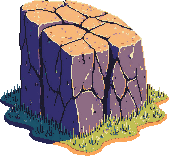
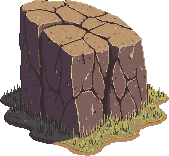
The tongue-stair climbs, and the scattered stones are gone
The carved stair to the maw is back as a continuous terrain-hugging
ribbon of pale treads seated by a soft seam - and the mystery chips that
traced the flows turned out to be the treads themselves, over-painted to
buried slivers by the front row (floor(row)+400 always loses to the next
row top at +5; the same z-band class as the invisible cascades). Treads
now ride the front row band.

De-clutter per the verdict: meadow boulders remapped from violet/orange
to quiet warm basalt, spawn cut, scale capped, the columnar one nearly
retired - the POWER steles are the meadow's only speaking verticals. The
charred column ring tightened (1.55 -> 1.3) and basalt courses now only
dress genuinely rock-banded flank, so no more dashed debris rings. The
gate stream runs a tile further from the stair so the two ribbons read
as parallel fire and pilgrim-stone, never a merge.

diff --git a/src/game/island/IslandMapIso.tsx b/src/game/island/IslandMapIso.tsx
@@ -724,7 +724,11 @@ export default function IslandMapIso() {
                 // independently, printing an orange/dark checker across the transition —
                 // walls follow the smooth field so the families change in long runs.
                 // Channel walls char: the lava bed's risers go basalt regardless of band.
-                const isCone = !NOCONE && L > PLAT_L && coneH(tx, ty) > 0 && !toSea && (sideW.length > 0 || vsF.length > 0)
+                // basalt courses ONLY where the top itself is banded rock: on the
+                // grassy lower flank every 1-level bench lip drew a dark strata
+                // column against the sunlit turf — a dashed debris ring circling
+                // the whole cone (Ash's "scattered stones", found via the dbg grid)
+                const isCone = !NOCONE && L > PLAT_L && coneBand(tx, ty) >= 1 && coneH(tx, ty) > 0 && !toSea && (sideW.length > 0 || vsF.length > 0)
                 // a lava tile's step pours EVERYWHERE, benches included — below the
                 // cone the flow's steps drew charred columns and the river read as
                 // dashes with dark gaps at every bench lip
@@ -734,7 +738,10 @@ export default function IslandMapIso() {
                   // river tiles pour over their steps as burning falls
                   drawFace(bx, by, lift - liftOf(floorMin), tx, ty, zBase, moltenStep)
                 } else {
-                  const charred = !NOCONE && (lavaDist(tx, ty) < 1.55 || craterK(tx, ty) > 0.4)
+                  // TIGHT charred ring (was 1.55): the 1.25..1.55 band turned every
+                // terrace-lip column near the flow into dark brick chips — a
+                // dashed debris line tracing the whole river ("scattered stones")
+                const charred = !NOCONE && (lavaDist(tx, ty) < 1.3 || craterK(tx, ty) > 0.4)
                   // a grass-topped inland step wears a turf riser (kills the pink
                   // rock contour lines under the meadow); sand beaches + coast cliffs
                   // + charred channel keep rock
@@ -747,7 +754,7 @@ export default function IslandMapIso() {
                 // channel, charred-dark so it recedes — NOT the broad fills Ash circled
                 // (those tinted bright rock across the whole flank). Grass/rock steps
                 // stay unfilled (their 1-level slivers read fine).
-                const inChannel = !NOCONE && (lavaDist(tx, ty) < 1.7 || craterK(tx, ty) > 0.3)
+                const inChannel = !NOCONE && !params.get('novoid') && (lavaDist(tx, ty) < 1.7 || craterK(tx, ty) > 0.3)
                 if (inChannel && (sideL.length || sideW.length)) {
                   const fam = sideL.length ? sideL : sideW
                   for (const [ox, oy] of [[-1, 0], [0, -1], [-1, -1]] as [number, number][]) {
@@ -1308,11 +1315,13 @@ export default function IslandMapIso() {
             const jy = sy + hash(sx + 5, sy) * 1.8 - 0.9
             if (r < 0.055) {
               putPlant(hash(sx + 2, sy) > 0.5 ? 'tuft-1' : 'tuft-2', jx, jy, { sc: 0.42 + 0.3 * hash(sx + 7, sy + 2), flip: hash(sx + 1, sy + 9) > 0.5, noShadow: true })
-            } else if (r < 0.062) {
-              // darkened — at native tint the terracotta+violet faces read as
-              // loud pink blobs against the meadow at mid zoom
-              putPlant(hash(sx, sy) > 0.75 ? 'boulder-1' : 'boulder-2', jx, jy, { sc: 0.5 + 0.35 * hash(sx + 7, sy + 2), flip: hash(sx + 1, sy + 9) > 0.5, dark: 0.8 })
-            } else if (r < 0.0655) {
+            } else if (r < 0.058) {
+              // QUIET rocks (Ash: "too many pillar / stones scattered") — art
+              // remapped to warm basalt, spawn cut ~60%, scale capped LOW, and
+              // the columnar boulder-1 nearly retired so the POWER steles stay
+              // the meadow's only speaking verticals
+              putPlant(hash(sx, sy) > 0.92 ? 'boulder-1' : 'boulder-2', jx, jy, { sc: 0.38 + 0.2 * hash(sx + 7, sy + 2), flip: hash(sx + 1, sy + 9) > 0.5, dark: 0.82 })
+            } else if (r < 0.0615) {
               putPlant('palm-fallen', jx, jy, { sc: 0.5 + 0.15 * hash(sx + 4, sy + 6), flip: hash(sx + 3, sy + 1) > 0.5 })
             }
           }
@@ -2081,6 +2090,57 @@ export default function IslandMapIso() {
                 world.addChild(rf2)
               }
             } catch { /* ford stones optional */ }
+            // THE TONGUE-STAIR: the carved climb from the forecourt up into the
+            // maw — terrain-hugging basalt treads pacing the exact corridor the
+            // walkmap opens (tongueD < 1.4). Each tread sits at its own ground
+            // height so the terraces themselves make the steps; flanking curb
+            // stones every few treads define the edges; the maw's light spills
+            // down the top of the climb.
+            try {
+              const stT: Texture = await Assets.load('/art/island/harbor/stone-block-a.png?v=5')
+              stT.source.scaleMode = 'nearest'
+              const slabT = new Texture({ source: stT.source, frame: new Rectangle(0, 0, 64, 36) })
+              let ti = 0
+              for (let i = 0; i < TONGUE.length - 1; i++) {
+                const [x0, y0] = TONGUE[i], [x1, y1] = TONGUE[i + 1]
+                // CONTIGUOUS treads (pitch 0.42, wide slabs): the first pass at
+                // 0.62 pitch drew separated dark rectangles — "scattered stones"
+                // again, the exact verdict this stair exists to answer
+                const n = Math.max(1, Math.ceil(Math.hypot(x1 - x0, y1 - y0) / 0.42))
+                for (let s = 0; s < n; s++, ti++) {
+                  const x = x0 + ((x1 - x0) * s) / n, y = y0 + ((y1 - y0) * s) / n
+                  const lf = liftOf(eLvl(Math.round(x), Math.round(y)))
+                  const bx2 = isoX(x, y), by2 = isoY(x, y) + GY - lf
+                  // z in the FRONT row's band: at floor(row)+400 the tile in
+                  // front over-painted every tread to a buried sliver — the
+                  // whole stair read as scattered dark chips (the same z-class
+                  // bug as the invisible cascades)
+                  const zB = (Math.floor(x + y) + 1) * 4000 + lf * 2 + 60
+                  // one soft dark seam under the ribbon seats it into the slope
+                  const seam = new Sprite(foamTex); seam.anchor.set(0.5, 0.5)
+                  seam.width = 62; seam.height = 26; seam.alpha = 0.22; seam.tint = 0x1a120c
+                  seam.position.set(bx2, by2 + 5); seam.zIndex = zB - 1
+                  world.addChild(seam)
+                  const tread = new Sprite(slabT); tread.anchor.set(0.5, 0.5)
+                  tread.width = 54; tread.height = 30
+                  // pale worn stone in the path's own family — the stair is the
+                  // path's formal continuation, not dark debris on the grass
+                  const v = 0.9 + 0.12 * hash(ti * 3.1, ti * 1.7)
+                  tread.tint = (Math.round(0xc9 * v) << 16) | (Math.round(0xb4 * v) << 8) | Math.round(0x92 * v)
+                  tread.position.set(bx2, by2 + 2); tread.zIndex = zB
+                  world.addChild(tread)
+                }
+              }
+              // the maw light pools down the last stretch of the climb
+              const [mx2, my2] = TONGUE[TONGUE.length - 1]
+              const lfM = liftOf(eLvl(Math.round(mx2), Math.round(my2)))
+              const spill = new Sprite(foamTex); spill.anchor.set(0.5, 0.5); spill.blendMode = 'add'
+              spill.tint = 0xff8a30; spill.width = 170; spill.height = 84; spill.alpha = 0.22
+              spill.position.set(isoX(mx2, my2), isoY(mx2, my2) + GY - lfM - 8)
+              spill.zIndex = (Math.round(mx2) + Math.round(my2)) * 4000 + lfM * 2 + 410
+              world.addChild(spill)
+              glows.push({ sp: spill, ph: 1.1, a: 0.22 })
+            } catch { /* stair art optional */ }
           } catch { /* POI art optional until it lands */ }
         }
 

diff --git a/src/game/island/terrain.ts b/src/game/island/terrain.ts
@@ -156,8 +156,10 @@ export const MOUTH_L: [number, number] = [102.2, 117.8]
 export const LAVA: [number, number][][] = [
   // left head mouth-strike -> SW-front coast (down-screen, drifting screen-left)
   [MOUTH_L, [101, 127], [97.5, 134], [93, 141], [88, 148]],
-  // gate head mouth-strike -> SE coast, ~3 tiles south of the tongue the whole way
-  [MOUTH_R, [127, 102], [134, 99.5], [141, 96], [149, 91.5]],
+  // gate head mouth-strike -> SE coast, ~4 tiles south of the tongue-stair the
+  // whole way (at ~3 the char band crowded the treads and the two ribbons
+  // visually merged at the crossing zone)
+  [MOUTH_R, [127, 103], [134, 100.5], [141, 97], [149, 92.5]],
 ]
 export function lavaDist(tx: number, ty: number) {
   let best = 99

diff --git a/src/game/island/hub-layout.ts b/src/game/island/hub-layout.ts
@@ -264,7 +264,10 @@ export function initHubLayout() {
   // mouth stays dry while the flow roars beside it.
   // TONGUE[0] = the base (where the plaza approach arrives), last = the mouth.
   GATE_HEAD = HEAD_R
-  TONGUE = [[140, 92], [132, 96], [124, 99], [GATE_HEAD[0], GATE_HEAD[1]]]
+  // the stair's summit lands on the maw's CLEAR side (NW of the mouth-strike —
+  // the stream exits the jaw's right corner at MOUTH_R, and a summit at the
+  // old head-centre drowned the top treads in the molten field)
+  TONGUE = [[140, 92], [132, 96], [124, 99], [116.4, 99.8]]
 
   // PATHS: the coast PROMENADE stitches E port -> S cove -> plaza -> W lawn; spurs
   // feed it from each port; the APPROACH climbs toward the gate stair.
